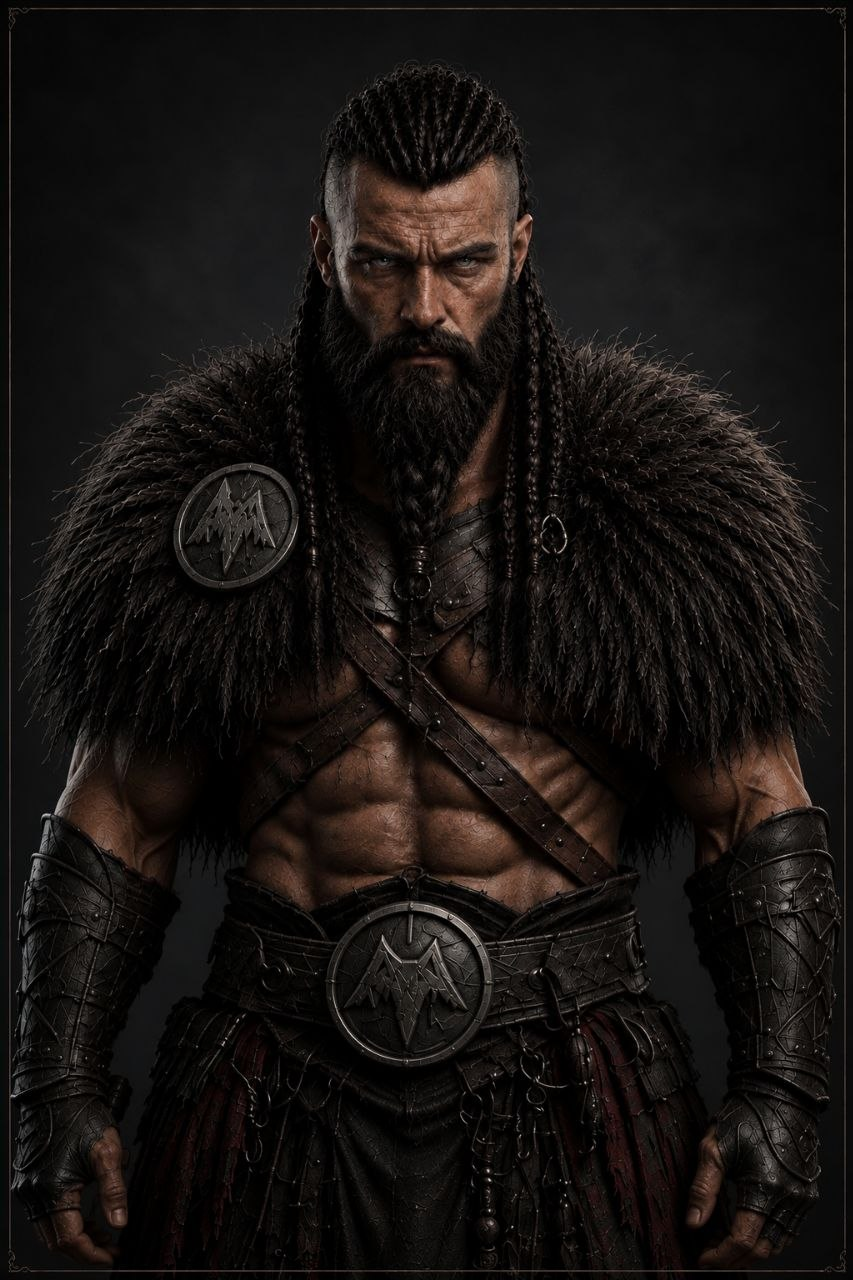
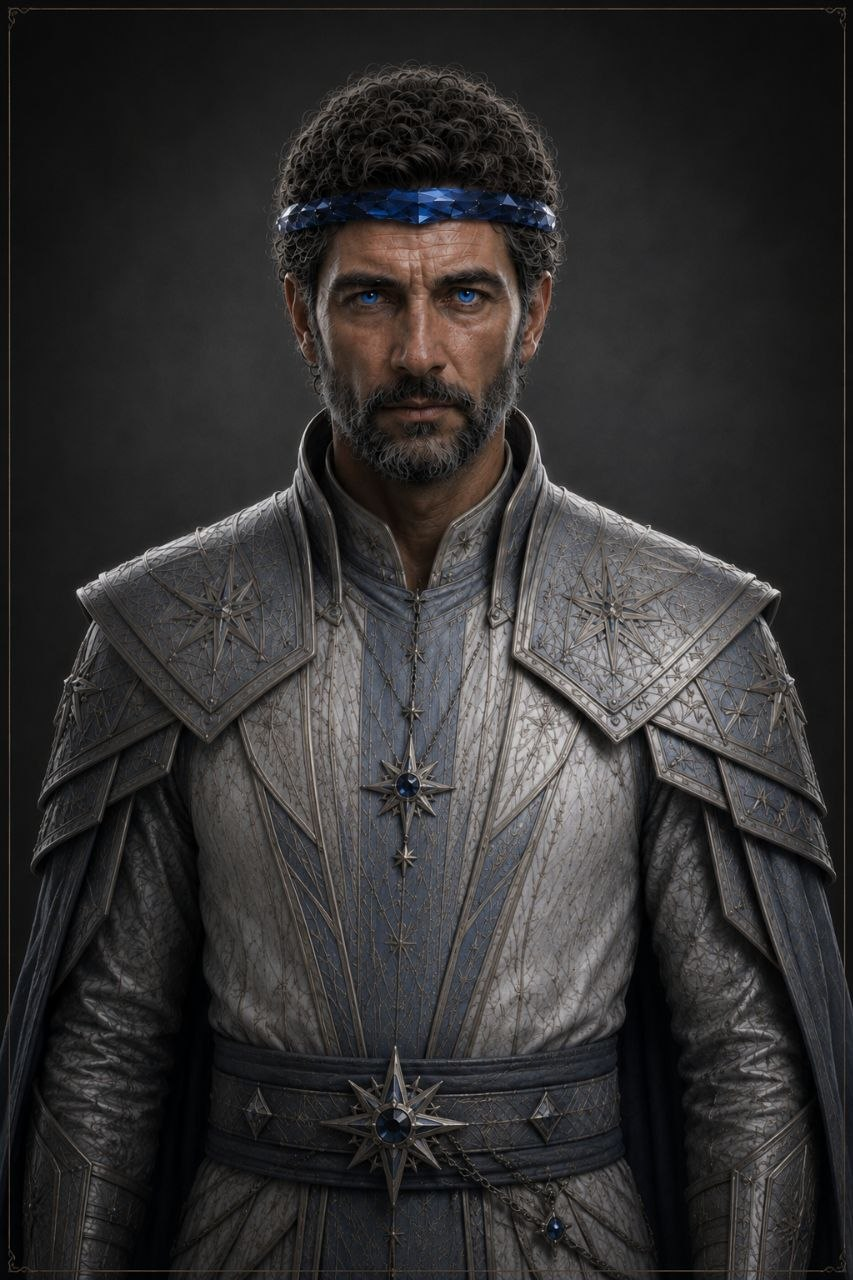
newwww

diff --git a/app/characters/[kingdom]/page.tsx b/app/characters/[kingdom]/page.tsx
@@ -18,13 +18,8 @@ export default function KingdomCharactersPage() {
 
   const [search, setSearch] = useState("");
 
-  if (!kingdom) {
-    return null;
-  }
-
   const kingdomCharacters = characters[kingdomId] ?? [];
 
-  // eslint-disable-next-line react-hooks/rules-of-hooks
   const filteredCharacters = useMemo(() => {
     const query = search.toLowerCase().trim();
 
@@ -32,19 +27,29 @@ export default function KingdomCharactersPage() {
       return kingdomCharacters;
     }
 
-    return kingdomCharacters.filter((character) =>
-      `${character.name} ${character.title} ${character.description}`
+    return kingdomCharacters.filter((character) => {
+      const name = character.identity.name;
+      const titles = character.identity.titles.join(" ");
+      const role = character.identity.role;
+      const kingdom = character.identity.kingdom;
+      const overview = character.description.overview;
+
+      return `${name} ${titles} ${role} ${kingdom} ${overview}`
         .toLowerCase()
-        .includes(query)
-    );
+        .includes(query);
+    });
   }, [search, kingdomCharacters]);
+
+  if (!kingdom) {
+    return null;
+  }
 
   return (
     <main className="min-h-screen bg-[#090807] text-stone-100">
       <div className="mx-auto max-w-7xl px-6 py-16 lg:px-10">
 
         {/* Breadcrumb */}
-        <div className="flex gap-3 text-[9px] uppercase tracking-[0.25em] text-stone-700">
+        <div className="flex flex-wrap gap-3 text-[9px] uppercase tracking-[0.25em] text-stone-700">
           <Link
             href="/"
             className="transition-colors hover:text-amber-400"
@@ -109,66 +114,74 @@ export default function KingdomCharactersPage() {
 
         {/* Character Grid */}
         <div className="mt-10 grid gap-5 md:grid-cols-2">
+          {filteredCharacters.map((character) => {
+            const name = character.identity.name;
 
-          {filteredCharacters.map((character) => (
-            <Link
-              key={character.id}
-              href={`/characters/${kingdomId}/${character.id}`}
-              className="group flex min-h-[280px] overflow-hidden rounded-2xl border border-white/5 bg-[#0d0c0a] transition-all duration-300 hover:-translate-y-1 hover:border-amber-400/20"
-            >
-              {/* Portrait */}
-              <div className="relative w-[38%] shrink-0 overflow-hidden">
-                <img
-                  src={
-                    character.image ??
-                    "/images/character-1.jpg"
-                  }
-                  alt={character.name}
-                  className="h-full w-full object-cover object-center transition-transform duration-700 group-hover:scale-105"
-                />
+            const title =
+              character.identity.titles[0] ??
+              character.identity.role;
 
-                {/* Image fade */}
-                <div className="absolute inset-y-0 right-0 w-16 bg-gradient-to-r from-transparent to-[#0d0c0a]" />
+            const overview = character.description.overview;
 
-                {/* Image darkness */}
-                <div className="absolute inset-0 bg-black/10 transition-opacity duration-300 group-hover:opacity-0" />
-              </div>
+            return (
+              <Link
+                key={character.id}
+                href={`/characters/${kingdomId}/${character.id}`}
+                className="group flex min-h-[280px] overflow-hidden rounded-2xl border border-white/5 bg-[#0d0c0a] transition-all duration-300 hover:-translate-y-1 hover:border-amber-400/20"
+              >
+                {/* Portrait */}
+                <div className="relative w-[38%] shrink-0 overflow-hidden">
+                  <img
+                    src={
+                      character.image ??
+                      "/images/character-1.jpg"
+                    }
+                    alt={name}
+                    className="h-full w-full object-cover object-center transition-transform duration-700 group-hover:scale-105"
+                  />
 
-              {/* Content */}
-              <div className="flex min-w-0 flex-1 flex-col justify-center p-6">
-                <p className="text-[8px] uppercase tracking-[0.25em] text-amber-500/50">
-                  {character.title}
-                </p>
+                  {/* Image fade */}
+                  <div className="absolute inset-y-0 right-0 w-16 bg-gradient-to-r from-transparent to-[#0d0c0a]" />
 
-                <h2 className="mt-2 font-serif text-2xl leading-tight text-stone-100 transition-colors group-hover:text-amber-100">
-                  {character.name}
-                </h2>
-
-                <div className="mt-4 h-px w-8 bg-amber-400/30 transition-all duration-300 group-hover:w-12 group-hover:bg-amber-400/60" />
-
-                <p className="mt-4 line-clamp-4 text-xs leading-6 text-stone-500">
-                  {character.description}
-                </p>
-
-                <div className="mt-5 flex items-center gap-2 text-[8px] uppercase tracking-[0.25em] text-stone-700 transition-colors group-hover:text-amber-400/70">
-                  View character
-
-                  <span className="transition-transform duration-300 group-hover:translate-x-1">
-                    →
-                  </span>
+                  {/* Image darkness */}
+                  <div className="absolute inset-0 bg-black/10 transition-opacity duration-300 group-hover:opacity-0" />
                 </div>
-              </div>
-            </Link>
-          ))}
 
+                {/* Content */}
+                <div className="flex min-w-0 flex-1 flex-col justify-center p-6">
+                  <p className="text-[8px] uppercase tracking-[0.25em] text-amber-500/50">
+                    {title}
+                  </p>
+
+                  <h2 className="mt-2 font-serif text-2xl leading-tight text-stone-100 transition-colors group-hover:text-amber-100">
+                    {name}
+                  </h2>
+
+                  <div className="mt-4 h-px w-8 bg-amber-400/30 transition-all duration-300 group-hover:w-12 group-hover:bg-amber-400/60" />
+
+                  <p className="mt-4 line-clamp-4 text-xs leading-6 text-stone-500">
+                    {overview}
+                  </p>
+
+                  <div className="mt-5 flex items-center gap-2 text-[8px] uppercase tracking-[0.25em] text-stone-700 transition-colors group-hover:text-amber-400/70">
+                    View character
+
+                    <span className="transition-transform duration-300 group-hover:translate-x-1">
+                      →
+                    </span>
+                  </div>
+                </div>
+              </Link>
+            );
+          })}
         </div>
 
+        {/* Empty State */}
         {filteredCharacters.length === 0 && (
           <div className="py-24 text-center text-stone-700">
             No characters found.
           </div>
         )}
-
       </div>
     </main>
   );
